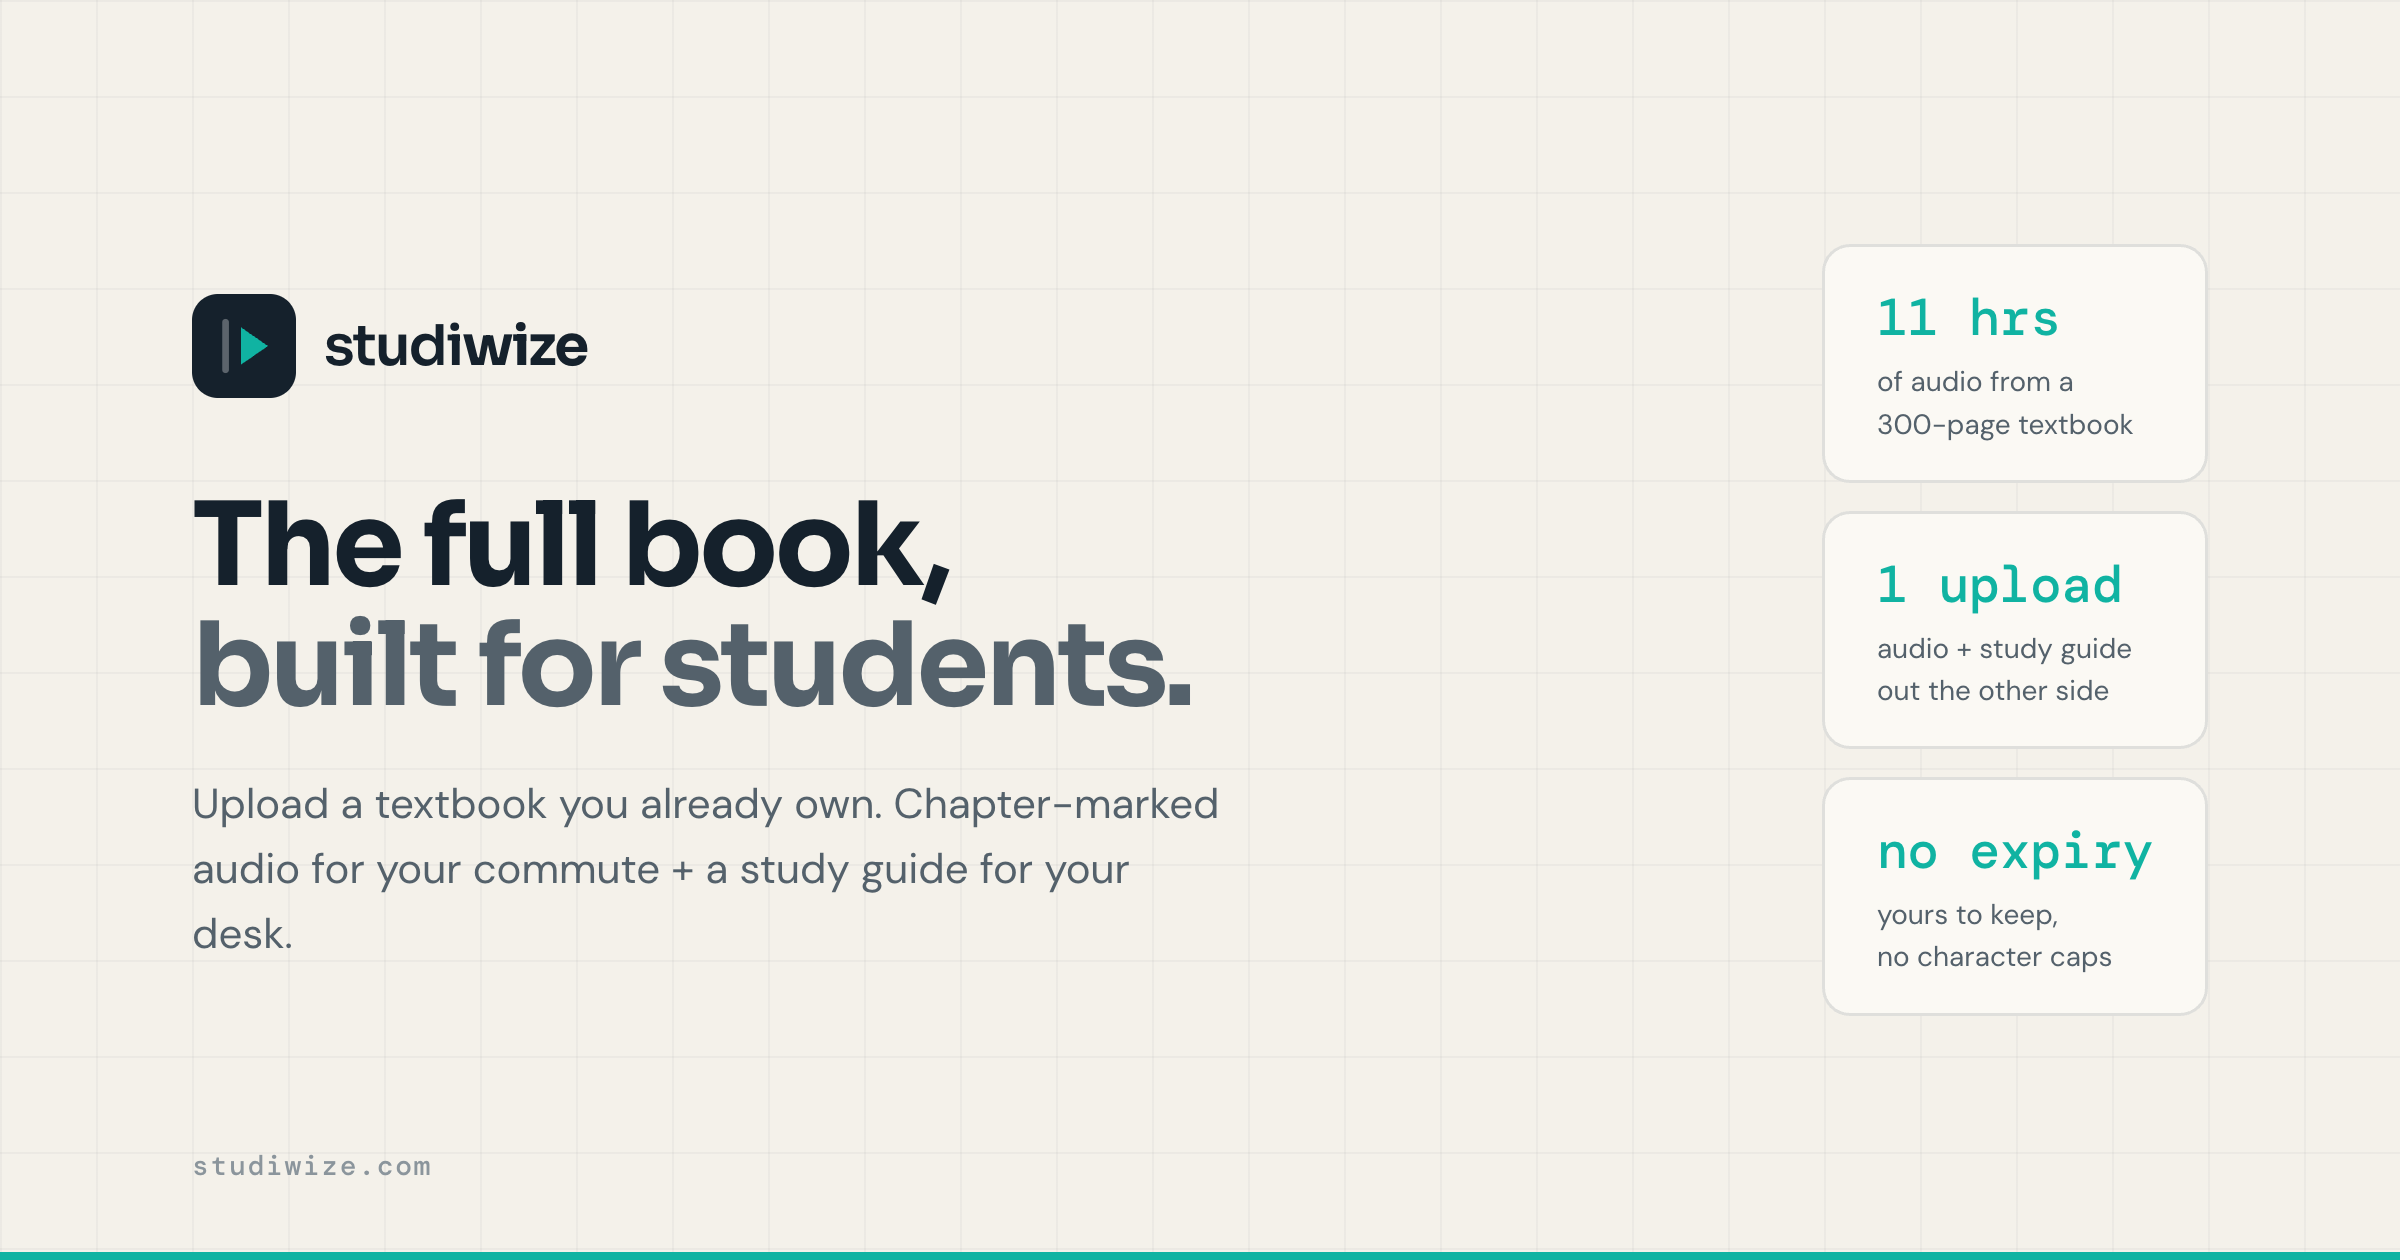
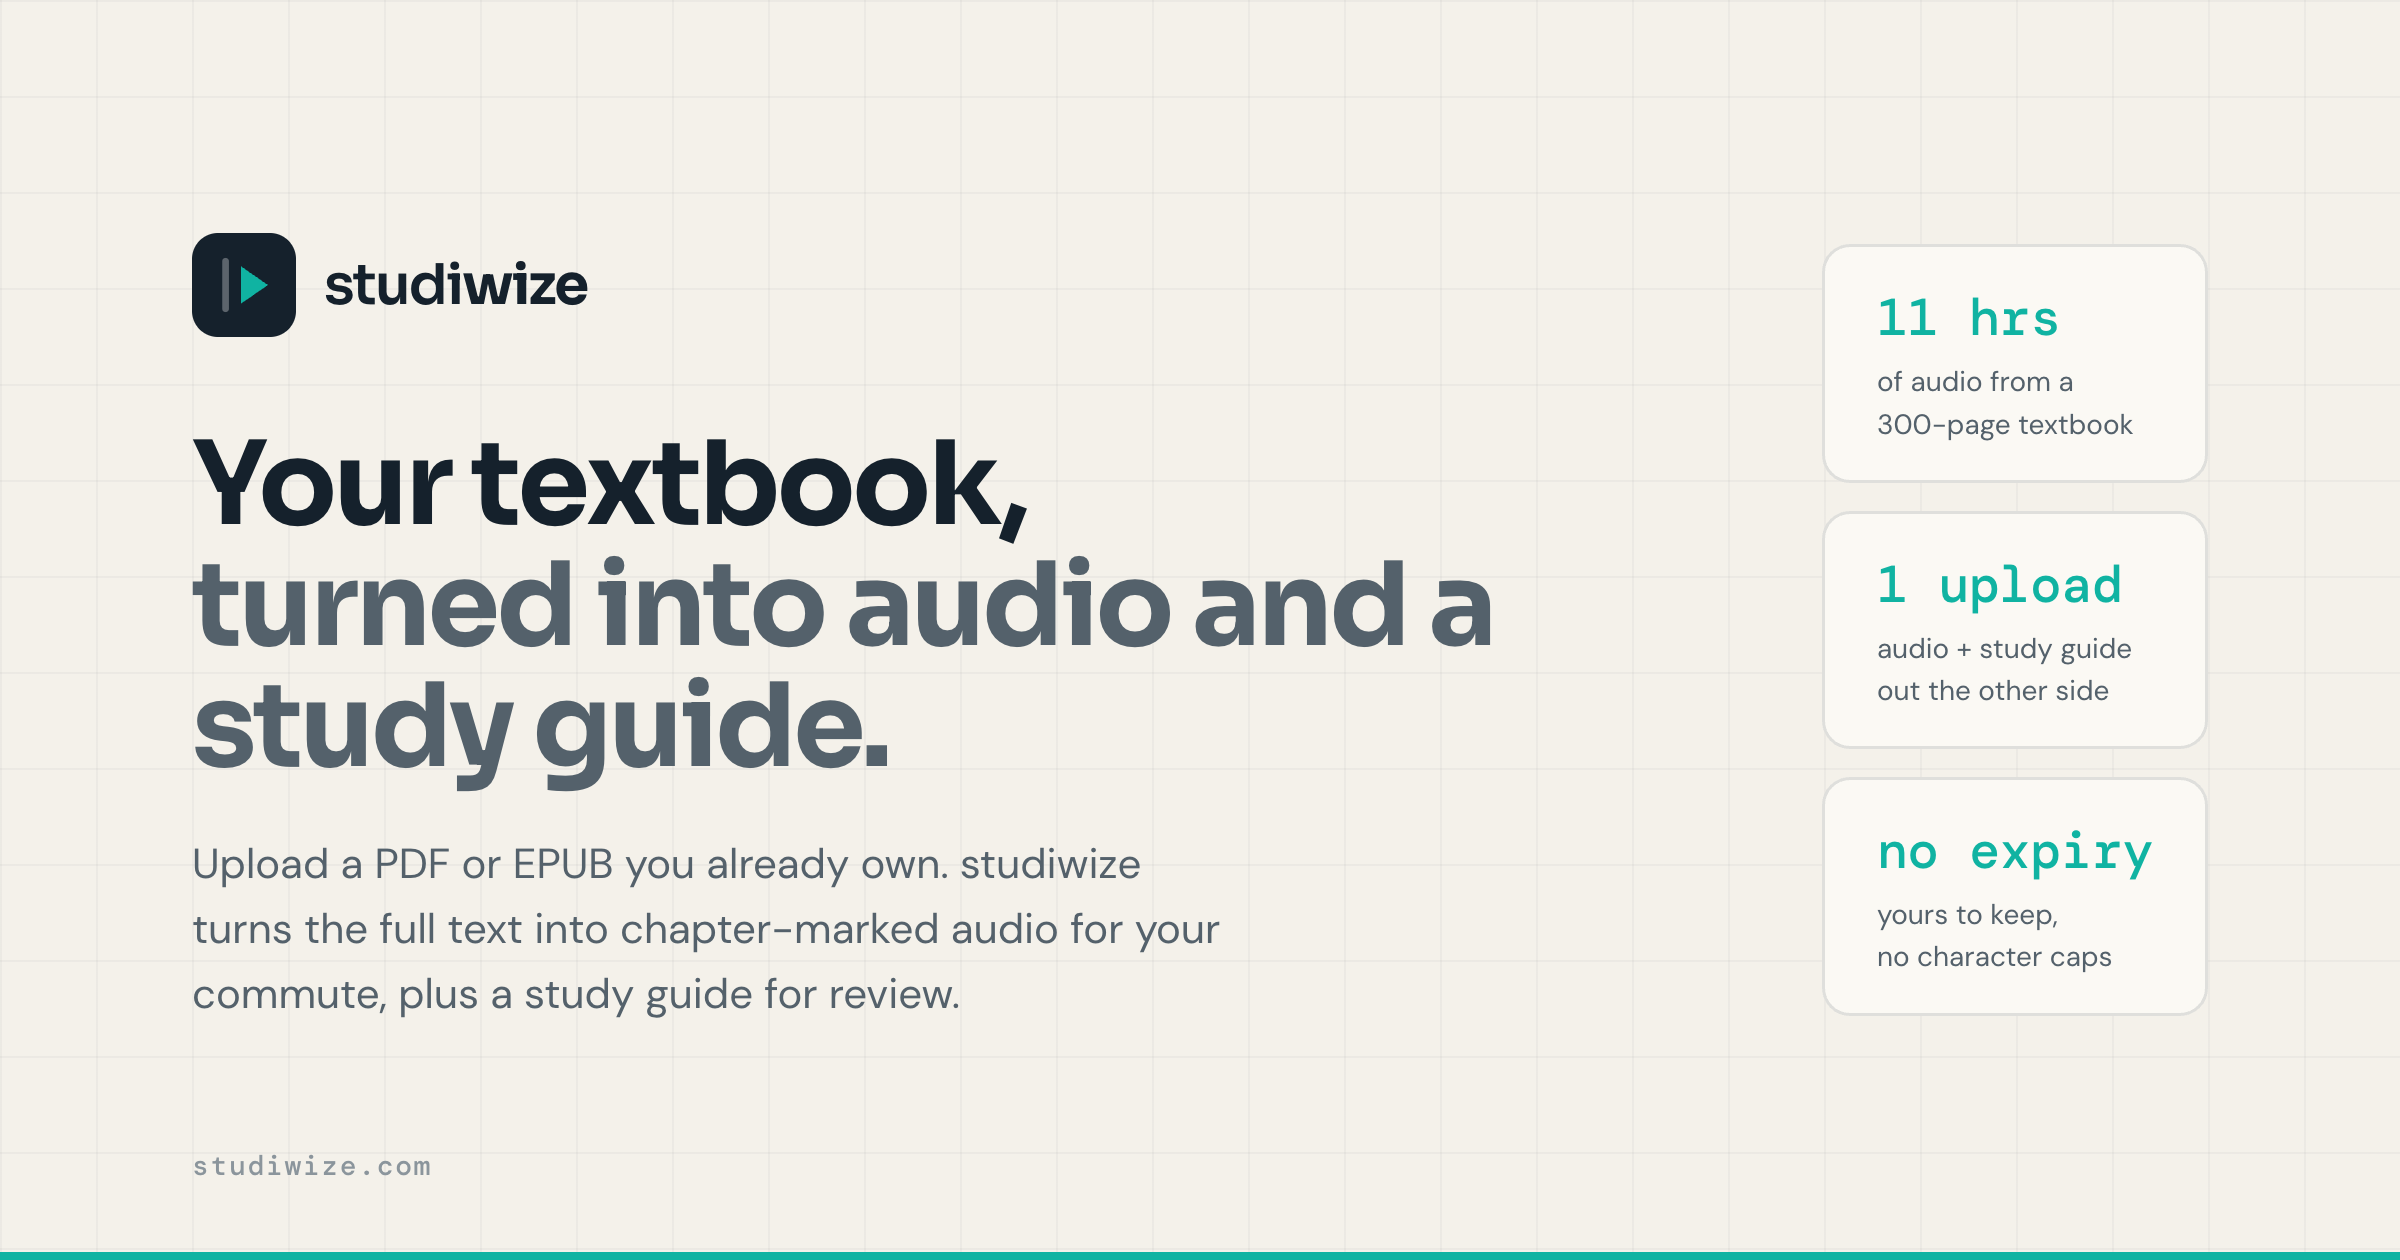
Polish landing page CTA and tagline

Changed region(s): [[0.0625, 0.1857, 0.625, 0.8048]]

diff --git a/index.html b/index.html
@@ -3,15 +3,15 @@
 <head>
 <meta charset="UTF-8" />
 <meta name="viewport" content="width=device-width, initial-scale=1.0" />
-<title>studiwize — the full book, built for students</title>
-<meta name="description" content="The full book, built for students. studiwize turns a textbook you own into chapter-marked audio for your commute, plus a study guide for your desk. Coming to iOS — join the list." />
+<title>studiwize — textbook audio and study guides</title>
+<meta name="description" content="Turn a PDF or EPUB you already own into chapter-marked audio for your commute, plus a study guide for review. Coming to iOS — join the list." />
 <link rel="canonical" href="https://studiwize.com/" />
 
 <!-- Open Graph -->
 <meta property="og:type"        content="website" />
 <meta property="og:url"         content="https://studiwize.com/" />
-<meta property="og:title"       content="studiwize — the full book, built for students" />
-<meta property="og:description" content="The full book, built for students. Chapter-marked audio for your commute + a study guide for your desk. Coming to iOS — join the list." />
+<meta property="og:title"       content="studiwize — textbook audio and study guides" />
+<meta property="og:description" content="Turn a PDF or EPUB you already own into chapter-marked audio for your commute, plus a study guide for review. Coming to iOS — join the list." />
 <meta property="og:image"       content="https://studiwize.com/og-image.png" />
 <meta property="og:image:width"  content="1200" />
 <meta property="og:image:height" content="630" />
@@ -19,8 +19,8 @@
 
 <!-- Twitter / X card -->
 <meta name="twitter:card"        content="summary_large_image" />
-<meta name="twitter:title"       content="studiwize — the full book, built for students" />
-<meta name="twitter:description" content="The full book, built for students. Chapter-marked audio for your commute + a study guide for your desk. Coming to iOS — join the list." />
+<meta name="twitter:title"       content="studiwize — textbook audio and study guides" />
+<meta name="twitter:description" content="Turn a PDF or EPUB you already own into chapter-marked audio for your commute, plus a study guide for review. Coming to iOS — join the list." />
 <meta name="twitter:image"       content="https://studiwize.com/og-image.png" />
 
 <!-- Theme -->
@@ -55,7 +55,10 @@
       <a class="navlink" href="#problem">Why</a>
       <a class="navlink" href="#wedge">The difference</a>
       <a class="navlink" href="#how">How it works</a>
-      <a class="btn btn-primary nav-cta" href="#waitlist">Get early access</a>
+      <a class="btn btn-primary nav-cta" href="#waitlist" aria-label="Get early access">
+        <span class="nav-cta-full">Get early access</span>
+        <span class="nav-cta-compact" aria-hidden="true">Join list</span>
+      </a>
     </nav>
   </div>
 </header>
@@ -67,8 +70,8 @@
   <div class="wrap hero-grid">
     <div class="hero-copy">
 
-      <h1 id="hero-heading" class="reveal">The full book,<br /><span class="soft">built for students.</span></h1>
-      <p class="hero-sub reveal">studiwize turns a textbook you already own into the entire text as chapter-marked audio for your commute — plus a study guide for when you're back at a desk.</p>
+      <h1 id="hero-heading" class="reveal">Your textbook,<br /><span class="soft">turned into audio and a study guide.</span></h1>
+      <p class="hero-sub reveal">Upload a PDF or EPUB you already own. studiwize turns the full text into chapter-marked audio for your commute, plus a study guide for review.</p>
       <div class="hero-cta reveal">
         <a class="btn btn-primary" href="#waitlist">
           <span class="mk" aria-hidden="true">
@@ -379,7 +382,7 @@
         <span class="mark" style="font-size:26px" aria-hidden="true"></span>
         <span class="wm-text">studi<b>wize</b></span>
       </a>
-      <p class="foot-tag">The full book, built for students. Turn the reading you already own into audio for the commute.</p>
+      <p class="foot-tag">Turn the reading you already own into chapter-marked audio and a study guide.</p>
     </div>
     <div class="foot-meta">
       <span>studiwize.com</span>

diff --git a/lib/landing.css b/lib/landing.css
@@ -25,7 +25,15 @@ body { overflow-x: hidden; }
 }
 .nav-links a:hover { color: var(--ink); }
 .nav-cta { padding: 10px 18px; font-size: 15px; }
+.nav-links .nav-cta,
+.nav-links .nav-cta:hover { color: var(--on-accent); }
+.nav-cta-compact { display: none; }
 @media (max-width: 720px){ .nav-links .navlink { display: none; } }
+@media (max-width: 380px){
+  .nav-cta { padding-inline: 15px; }
+  .nav-cta-full { display: none; }
+  .nav-cta-compact { display: inline; }
+}
 
 /* ── section rhythm ──────────────────────────────────────── */
 section { position: relative; }
@@ -42,10 +50,11 @@ section { position: relative; }
 /* ── hero ────────────────────────────────────────────────── */
 .hero { padding-top: 64px; padding-bottom: 88px; overflow: hidden; }
 .hero-grid {
-  display: grid; grid-template-columns: 1.05fr 0.95fr; gap: 56px; align-items: center;
+  display: grid; grid-template-columns: minmax(0, 1.05fr) minmax(0, 0.95fr); gap: 56px; align-items: center;
 }
+.hero-grid > * { min-width: 0; }
 @media (max-width: 900px){
-  .hero-grid { grid-template-columns: 1fr; gap: 48px; }
+  .hero-grid { grid-template-columns: minmax(0, 1fr); gap: 48px; }
   .hero { padding-top: 40px; padding-bottom: 56px; }
 }
 .hero h1 {
@@ -58,6 +67,10 @@ section { position: relative; }
   margin: 22px 0 0; max-width: 30ch;
 }
 .hero-cta { display: flex; gap: 12px; margin-top: 32px; flex-wrap: wrap; }
+@media (max-width: 520px){
+  .hero-cta { flex-direction: column; }
+  .hero-cta .btn { width: 100%; }
+}
 .hero-pre { margin: 12px 0 0; font-size: 13px; color: var(--ink-3); letter-spacing: 0.01em; }
 .hero-meta {
   margin-top: 26px; display: flex; gap: 22px; flex-wrap: wrap;

diff --git a/scripts/generate-og.js b/scripts/generate-og.js
@@ -165,8 +165,8 @@ const html = `<!DOCTYPE html>
         <div class="mark">${MARK_SVG}</div>
         <div class="wm-text">studi<b>wize</b></div>
       </div>
-      <h1>The full book,<br><span class="soft">built for students.</span></h1>
-      <p>Upload a textbook you already own. Chapter-marked audio for your commute + a study guide for your desk.</p>
+      <h1>Your textbook,<br><span class="soft">turned into audio and a study guide.</span></h1>
+      <p>Upload a PDF or EPUB you already own. studiwize turns the full text into chapter-marked audio for your commute, plus a study guide for review.</p>
     </div>
     <div class="right">
       <div class="pill">

diff --git a/lib/brand.css b/lib/brand.css
@@ -29,7 +29,7 @@
   /* accent — teal */
   --accent:      #10B3A2;   /* play / primary CTA */
   --accent-deep: #0A786E;   /* accent text on light */
-  --on-accent:   #ffffff;   /* text on accent fills */
+  --on-accent:   #052420;   /* text on accent fills */
 
   /* dark surfaces (audio player / night) */
   --night:    #0E1822;